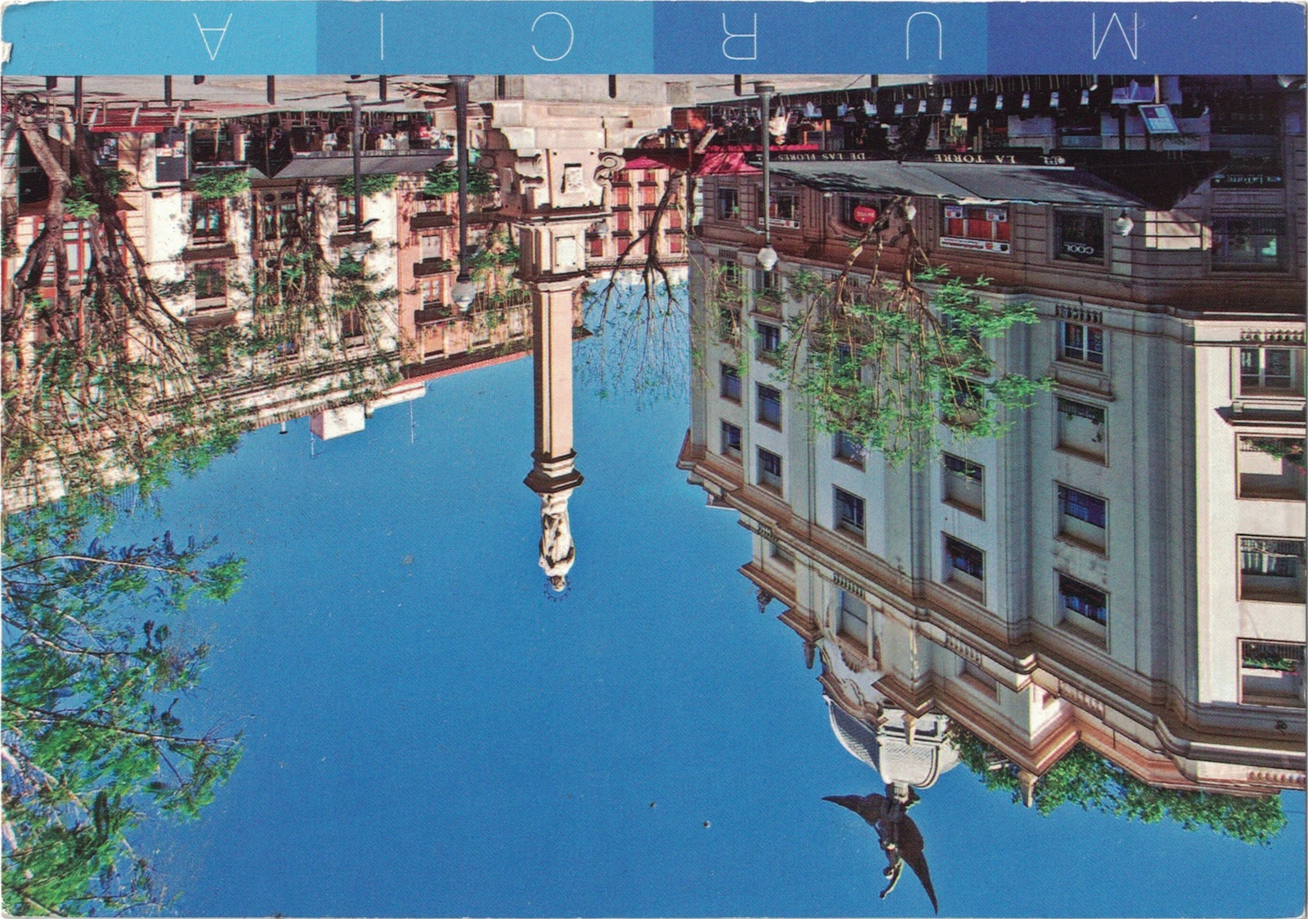
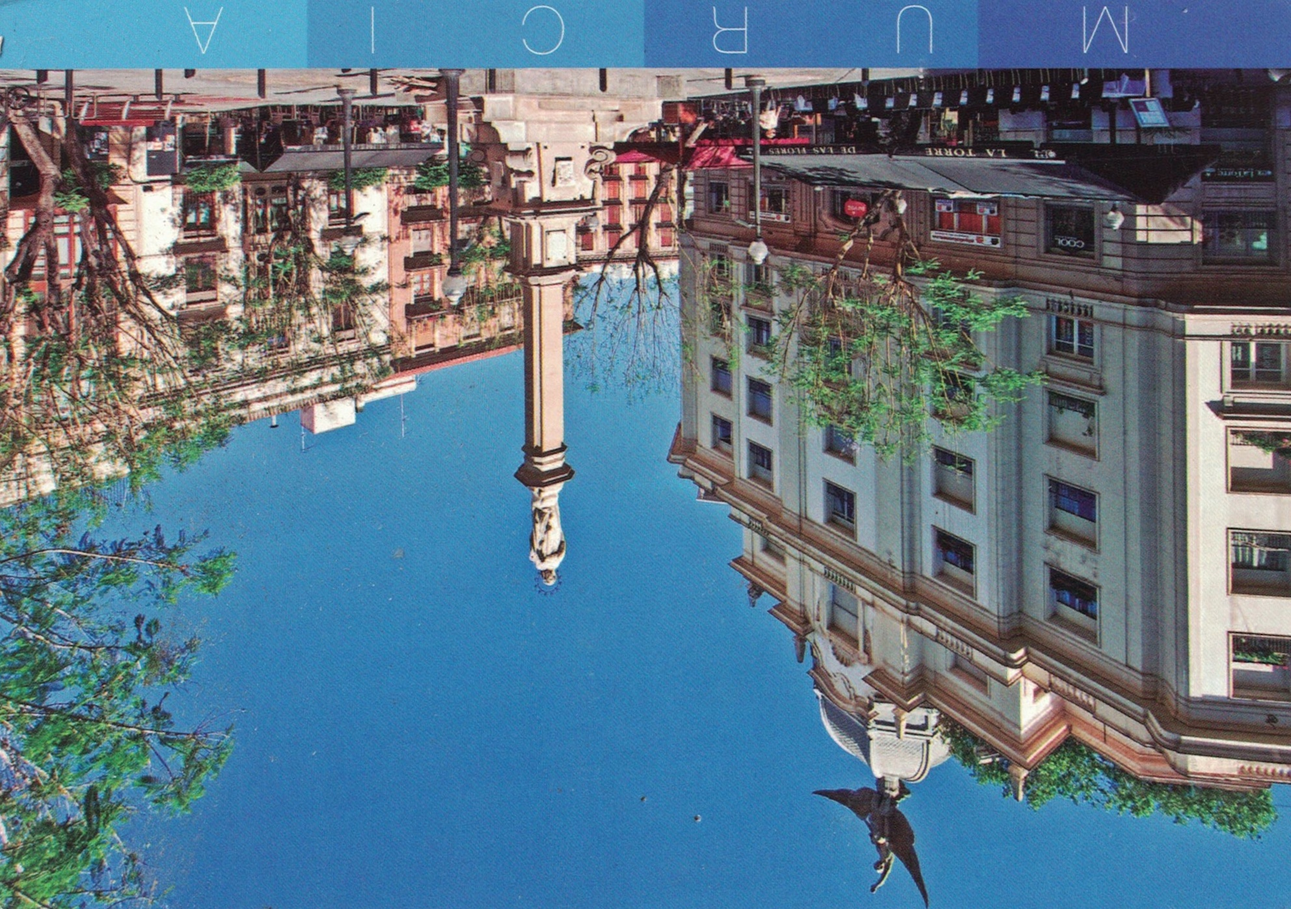
The auto-crop functonality is fully working with the 4 test images I have been working with. I tweaked the criteria for defining what contour is actually a photo. I also added a size offset in the crop function as there was still a little white border. Going to start on refactoring and cleaning up w

diff --git a/main.go b/main.go
@@ -5,9 +5,7 @@ import (
 	"image"
 	"image/color"
 	"log"
-	"math"
 	"os"
-	"sort"
 
 	"gocv.io/x/gocv"
 )
@@ -15,113 +13,14 @@ import (
 type Photos []gocv.PointVector
 
 func main() {
-	// CornerDebug()
-	t := []int{1, 3, 2}
-	m := Median(t)
-	fmt.Printf("%v: %v\n", m, t[int(m)])
-}
-
-type Contour struct {
-	i int
-	n int32
-	l int32
-	c int32
-	p int32
-	a float64
-}
-type Container []Contour
-
-func (pC *Container) Append(v gocv.Veci, a float64, i int) {
-	c := Contour{
-		i: i,
-		n: v[0],
-		l: v[1],
-		c: v[2],
-		p: v[3],
-	}
-	*pC = append(*pC, c)
-}
-
-func (C *Contour) Show() {
-	fmt.Printf("%v [ n: %v, l: %v, c: %v, p: %v ] a: %v\n", C.i, C.n, C.l, C.c, C.p, C.a)
-}
-
-func CornerDebug() {
-	img := LoadImg("./imgs-test/corner.JPG")
-	C := GetContours(&img)
-	fmt.Printf("C: %v, H: %v\n", C.C.Size(), C.H.Cols())
-
-	container := Container{}
-
-	for i := 0; i < C.C.Size(); i++ {
-		v := C.H.GetVeciAt(0, i)
-		A := gocv.ContourArea(C.C.At(i))
-		if A > 1000 {
-			fmt.Println(A)
-		}
-		container.Append(v, A, i)
-	}
-
-	for i := 0; i < len(container); i++ {
-		tmp := container[i]
-		if tmp.a > 0 {
-			tmp.Show()
-		}
-	}
-}
-
-func Median(values []int) int {
-	valuesMap := make(map[int]int)
-	for i, v := range values {
-		valuesMap[v] = i
-	}
-	fmt.Println("map: ", valuesMap)
-
-	valuesCopy := make([]int, len(values))
-	copy(valuesCopy, values)
-	fmt.Println("valuesCopy: ", valuesCopy)
-	sort.Ints(valuesCopy)
-	fmt.Println("Sorted valuesCopy: ", valuesCopy)
-
-	l := len(valuesCopy)
-	fmt.Println("l: ", l)
-	var m int
-
-	if l == 0 {
-		log.Fatal("len(valuesCopy) == 0")
-	} else if l%2 == 0 {
-		m = (l / 2) - (l % 2)
-		fmt.Println("m: ", m)
-	} else {
-		m = l / 2
-		fmt.Println("m: ", m)
-	}
-
-	return valuesMap[valuesCopy[m]]
-}
-
-func QuickSort(c Container) Container {
-	if len(c) <= 1 {
-		return c
-	} else {
-		mid := int(math.Floor(float64(len(c) / 2)))
-		m := map[float64]int{
-			c[0].a:      0,
-			c[mid].a:    1,
-			c[len(c)].a: 2,
-		}
-		var tmp []float64
-		for k, _ := range m {
-			tmp = append(tmp, k)
-		}
-		pivot := c[m[tmp[1]]]
-	}
+	Run()
 }
 
 func Run() {
 	middle := "./imgs-test/middle.JPG"
 	mid_rot := "./imgs-test/middle_rotated.JPG"
 	crooked := "./imgs-test/crooked.JPG"
+	corner := "./imgs-test/corner.JPG"
 
 	img := LoadImg(middle)
 	output := CropImg(&img)
@@ -134,6 +33,10 @@ func Run() {
 	img = LoadImg(crooked)
 	output = CropImg(&img)
 	SaveImg("./cropped/crooked_cropped.JPG", &output)
+
+	img = LoadImg(corner)
+	output = CropImg(&img)
+	SaveImg("./cropped/corner_cropped.JPG", &output)
 
 	img.Close()
 	output.Close()
@@ -165,7 +68,9 @@ func CropImg(img *gocv.Mat) gocv.Mat {
 
 	straight = StraightenImg(img, &rect)
 
-	sz := image.Pt(rect.Height, rect.Width)
+	szOffset := 30
+	sz := image.Pt(rect.Height-szOffset, rect.Width-szOffset)
+	fmt.Println("sz: ", sz)
 	gocv.GetRectSubPix(straight, sz, rect.Center, &output)
 
 	straight.Close()
@@ -210,7 +115,8 @@ func GetContours(img *gocv.Mat) Contours {
 	thresh := gocv.NewMat()
 
 	gocv.CvtColor(*img, &imgGray, gocv.ColorBGRToGray)
-	_ = gocv.Threshold(imgGray, &thresh, 127, 255, gocv.ThresholdBinary)
+	// _ = gocv.Threshold(imgGray, &thresh, 127, 255, gocv.ThresholdBinary)
+	_ = gocv.Threshold(imgGray, &thresh, 245, 255, gocv.ThresholdToZeroInv)
 
 	C.C = gocv.FindContoursWithParams(
 		thresh,
@@ -232,7 +138,8 @@ func FindPhoto(C *Contours) []int {
 		v := C.H.GetVeciAt(0, i)
 		_, _, c, p := v[0], v[1], v[2], v[3]
 		contourArea := gocv.ContourArea(C.C.At(i))
-		if p == 0 && c != -1 && contourArea > 2500 {
+		// if p == 0 && c != -1 && contourArea > 2500 {
+		if p == -1 && c != -1 && contourArea > 200 {
 			photoIdx = append(photoIdx, i)
 		}
 	}

diff --git a/debug.go b/debug.go
@@ -1,0 +1,117 @@
+package main
+
+// import (
+// 	"fmt"
+
+// 	"gocv.io/x/gocv"
+// )
+
+// type ContourInfo struct {
+// 	Index  int
+// 	Next   int32
+// 	Prev   int32
+// 	Child  int32
+// 	Parent int32
+// 	Area   float64
+// }
+// type Container []ContourInfo
+
+// func (pC *Container) Append(v gocv.Veci, a float64, i int) {
+// 	c := ContourInfo{
+// 		Index:  i,
+// 		Next:   v[0],
+// 		Prev:   v[1],
+// 		Child:  v[2],
+// 		Parent: v[3],
+// 		Area:   a,
+// 	}
+// 	*pC = append(*pC, c)
+// }
+
+// func (C *ContourInfo) Show() {
+// 	fmt.Printf(
+// 		"%v [ n: %v, l: %v, c: %v, p: %v ] a: %v\n",
+// 		C.Index,
+// 		C.Next,
+// 		C.Prev,
+// 		C.Child,
+// 		C.Parent,
+// 		C.Area,
+// 	)
+// }
+
+// func QuickSort(c Container) Container {
+// 	if len(c) <= 1 {
+// 		return c
+// 	} else {
+// 		l := float64(len(c))
+// 		mid := math.Floor(l / 2)
+// 		m := map[float64]int{
+// 			c[0].a:        0,
+// 			c[int(mid)].a: 1,
+// 			c[len(c)].a:   2,
+// 		}
+// 		var tmp []float64
+// 		for k, _ := range m {
+// 			tmp = append(tmp, k)
+// 		}
+// 		pivot := c[m[tmp[1]]]
+
+// 		fmt.Println("Pivot: ", pivot)
+
+// 		return c
+// 	}
+// }
+
+	// rand.Seed(time.Now().UnixMicro())
+	// b := rand.Perm(10)
+	// a := []float64{}
+	// for i, v := range b{
+	// 	a = append(a, float64(v))
+	// 	fmt.Printf("%v ", i)
+	// }
+	// fmt.Println()
+	// for _, v := range a{
+	// 	fmt.Printf("%v ", v)
+	// }
+	// fmt.Println()
+
+	// l := float64(len(a))
+	// mid := int(math.Floor(l / 2))
+	// fmt.Println("l/2: ", (l / 2))
+	// fmt.Println("Mid: ", mid)
+
+	// pMap := map[float64]int{
+	// 	a[0]:        0,
+	// 	a[mid]:      mid,
+	// 	a[len(a)-1]: len(a) - 1,
+	// }
+	// fmt.Println("pMap: ", pMap)
+	// var keys []float64
+	// for k := range pMap {
+	// 	keys = append(keys, k)
+	// }
+	// fmt.Println("keys: ", keys)
+	// sort.Float64s(keys)
+	// fmt.Println("sorted keys: ", keys)
+
+	// pivot := a[pMap[keys[1]]]
+	// fmt.Println("pivot: ", pivot)
+
+	// less := []float64{}
+	// equal := []float64{}
+	// more := []float64{}
+
+	// for i, v := range a{
+	// 	if v < pivot{
+	// 		less = append(less, a[i])
+	// 	} else if v == pivot{
+	// 		equal = append(equal, a[i])
+	// 	} else if v > pivot{
+	// 		more = append(more, a[i])
+	// 	} else{
+	// 		log.Fatal("Error Sorting Values")
+	// 	}
+	// }
+
+	// fmt.Printf("less: %v\nequal: %v\nmore: %v\n", less, equal, more)

diff --git a/utils/utils.go b/utils/utils.go
@@ -1,0 +1,21 @@
+package utils
+
+import (
+	"log"
+	"os"
+
+	"gocv.io/x/gocv"
+)
+
+func LoadImg(fileName string) gocv.Mat {
+	_, err := os.Stat(fileName)
+	if err != nil {
+		log.Fatal(err)
+	}
+	img := gocv.IMRead(fileName, gocv.IMReadColor)
+	return img
+}
+
+func SaveImg(fileName string, img *gocv.Mat) {
+	gocv.IMWrite(fileName, *img)
+}
